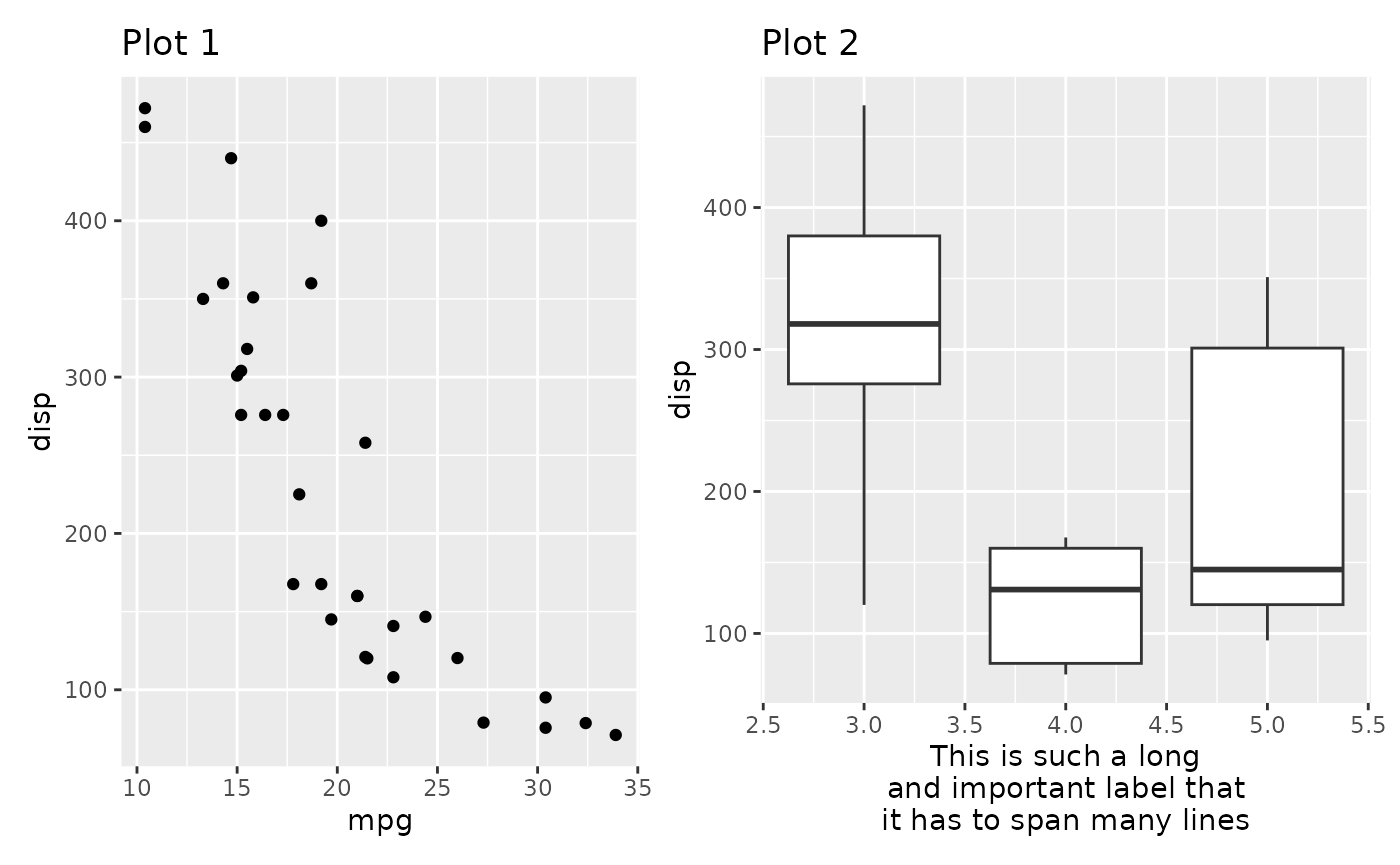
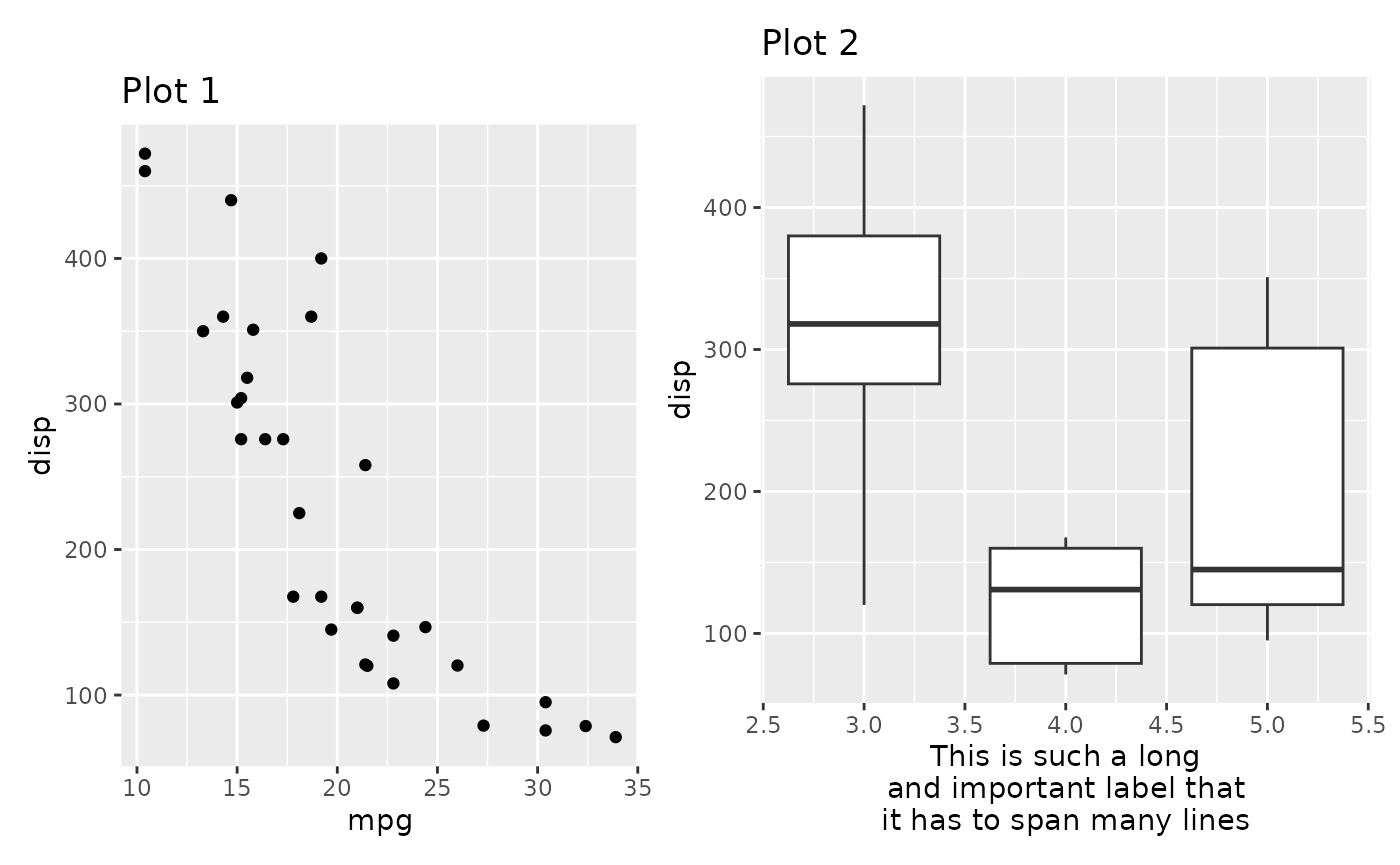
Deploying to gh-pages from @ thomasp85/patchwork@ccfcc97f16b56d5306ae737f60ad543ab192c170 🚀

diff --git a/articles/guides/layout.html b/articles/guides/layout.html
@@ -319,10 +319,10 @@ than the other:</p>
 <p><img src="layout_files/figure-html/unnamed-chunk-13-1.png" width="700"></p>
 <p>Depending on what you prefer you might want the leftmost plot to fill
 out as much room as possible instead of being aligned to the rightmost
-panel. Putting a ggplot or a patchwork inside
-<code><a href="../../reference/wrap_elements.html">wrap_elements()</a></code> removes any alignment from the plot.</p>
+panel. Putting a ggplot or a patchwork inside <code><a href="../../reference/free.html">free()</a></code>
+removes any alignment from the plot.</p>
 <div class="sourceCode" id="cb14"><pre class="downlit sourceCode r">
-<code class="sourceCode R"><span><span class="fu"><a href="../../reference/wrap_elements.html">wrap_elements</a></span><span class="op">(</span>full <span class="op">=</span> <span class="va">p1</span><span class="op">)</span> <span class="op">|</span> <span class="va">p2mod</span></span></code></pre></div>
+<code class="sourceCode R"><span><span class="fu"><a href="../../reference/free.html">free</a></span><span class="op">(</span><span class="va">p1</span><span class="op">)</span> <span class="op">|</span> <span class="va">p2mod</span></span></code></pre></div>
 <p><img src="layout_files/figure-html/unnamed-chunk-14-1.png" width="700"></p>
 </div>
 <div class="section level3">
@@ -344,10 +344,10 @@ widths despite being given the same amount of space in the design
 matrix. The reason for this is that the top plot has a y-axis to the
 left and a guide to the right, and those fall in between the two columns
 that make up the 1st and 3rd column in the bottom. Subsequently those
-plots are expanded to fill out the space. Once again
-<code><a href="../../reference/wrap_elements.html">wrap_elements()</a></code> will save us from this:</p>
+plots are expanded to fill out the space. Once again <code><a href="../../reference/free.html">free()</a></code>
+will save us from this:</p>
 <div class="sourceCode" id="cb16"><pre class="downlit sourceCode r">
-<code class="sourceCode R"><span><span class="fu"><a href="../../reference/wrap_elements.html">wrap_elements</a></span><span class="op">(</span>full <span class="op">=</span> <span class="va">p3</span><span class="op">)</span> <span class="op">+</span> <span class="va">p2</span> <span class="op">+</span> <span class="va">p1</span> <span class="op">+</span> <span class="va">p4</span> <span class="op">+</span> <span class="va">p4</span> <span class="op">+</span> <span class="va">p1</span> <span class="op">+</span> <span class="va">p2</span> <span class="op">+</span></span>
+<code class="sourceCode R"><span><span class="fu"><a href="../../reference/free.html">free</a></span><span class="op">(</span><span class="va">p3</span><span class="op">)</span> <span class="op">+</span> <span class="va">p2</span> <span class="op">+</span> <span class="va">p1</span> <span class="op">+</span> <span class="va">p4</span> <span class="op">+</span> <span class="va">p4</span> <span class="op">+</span> <span class="va">p1</span> <span class="op">+</span> <span class="va">p2</span> <span class="op">+</span></span>
 <span>  <span class="fu"><a href="../../reference/plot_layout.html">plot_layout</a></span><span class="op">(</span>design <span class="op">=</span> <span class="va">design</span><span class="op">)</span></span></code></pre></div>
 <p><img src="layout_files/figure-html/unnamed-chunk-16-1.png" width="700"></p>
 </div>
@@ -458,6 +458,39 @@ placed there instead of where the theme tells it to.</p>
 <p>Guide areas are only accessible on the same nesting level. If a
 nested patchwork has a guide area it will not be possible to place
 guides collected at a higher level there.</p>
+</div>
+<div class="section level2">
+<h2 id="controlling-axes">Controlling Axes<a class="anchor" aria-label="anchor" href="#controlling-axes"></a>
+</h2>
+<p>Much like the legends above, axes can sometimes be shared between
+plots. However, this only makes sense if the plots are positioned
+besides each other on top of having the exact same axis. patchwork
+provides two arguments to <code><a href="../../reference/plot_layout.html">plot_layout()</a></code> for controlling
+axes and they work much like the <code>guides</code> argument except
+they don’t allow recursing into nested patchworks (for obvious
+reasons).</p>
+<p>In the plot below the y-axis is redundant and could be kept to the
+side like we are used to from faceted plots:</p>
+<div class="sourceCode" id="cb27"><pre class="downlit sourceCode r">
+<code class="sourceCode R"><span><span class="va">p1</span> <span class="op">+</span> <span class="va">p2</span></span></code></pre></div>
+<p><img src="layout_files/figure-html/unnamed-chunk-27-1.png" width="700"></p>
+<p>This is easily fixed with the <code>axes</code> argument</p>
+<div class="sourceCode" id="cb28"><pre class="downlit sourceCode r">
+<code class="sourceCode R"><span><span class="va">p1</span> <span class="op">+</span> <span class="va">p2</span> <span class="op">+</span> <span class="fu"><a href="../../reference/plot_layout.html">plot_layout</a></span><span class="op">(</span>axes <span class="op">=</span> <span class="st">"collect"</span><span class="op">)</span></span></code></pre></div>
+<p><img src="layout_files/figure-html/unnamed-chunk-28-1.png" width="700"></p>
+<p>By default the axis title follows the collecting setting for the
+axis. We could also only collect the titles</p>
+<div class="sourceCode" id="cb29"><pre class="downlit sourceCode r">
+<code class="sourceCode R"><span><span class="va">p1</span> <span class="op">+</span> <span class="va">p2</span> <span class="op">+</span> <span class="fu"><a href="../../reference/plot_layout.html">plot_layout</a></span><span class="op">(</span>axis_titles <span class="op">=</span> <span class="st">"collect"</span><span class="op">)</span></span></code></pre></div>
+<p><img src="layout_files/figure-html/unnamed-chunk-29-1.png" width="700"></p>
+<p>This makes a lot of sense if the axes doesn’t match exactly but still
+share the same title. Further, title collecting also work in the other
+direction:</p>
+<div class="sourceCode" id="cb30"><pre class="downlit sourceCode r">
+<code class="sourceCode R"><span><span class="va">p1</span> <span class="op">/</span> <span class="va">p2</span> <span class="op">+</span> <span class="fu"><a href="../../reference/plot_layout.html">plot_layout</a></span><span class="op">(</span>axis_titles <span class="op">=</span> <span class="st">"collect"</span><span class="op">)</span></span></code></pre></div>
+<p><img src="layout_files/figure-html/unnamed-chunk-30-1.png" width="700"></p>
+<p>In the above we see that the y-axis title now only appears once and
+is positioned centrally.</p>
 </div>
 <div class="section level2">
 <h2 id="want-more">Want more?<a class="anchor" aria-label="anchor" href="#want-more"></a>
